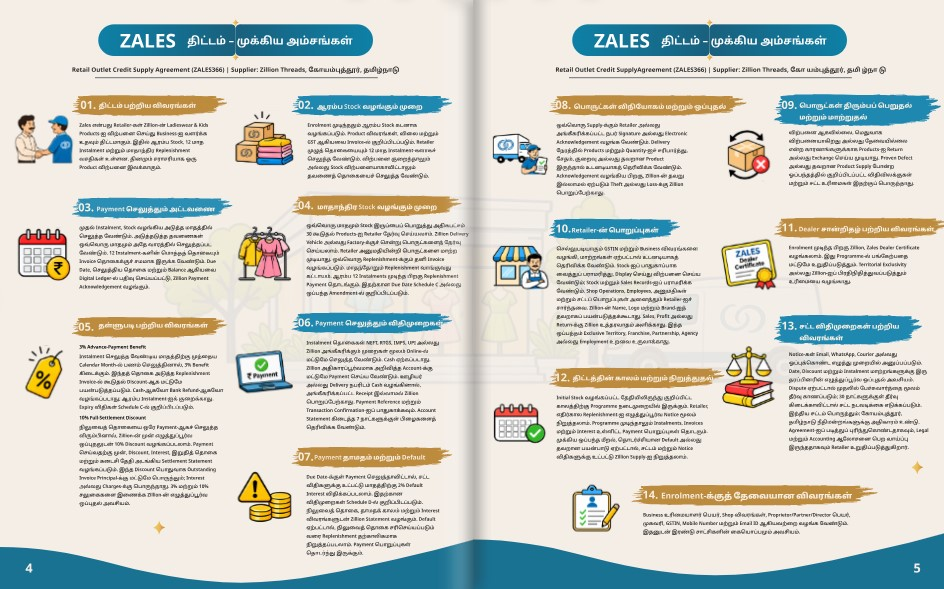
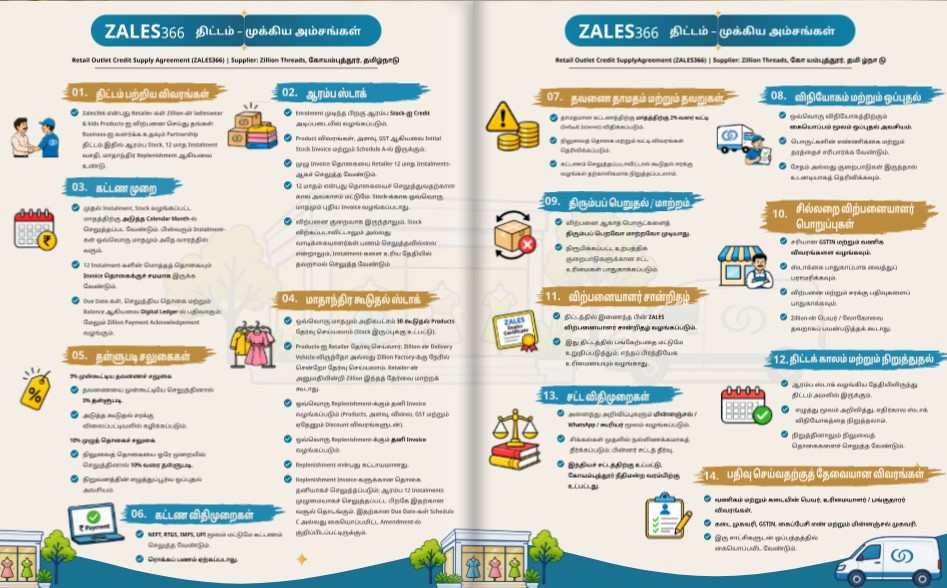
updated page 4 and page 5

diff --git a/For_Desc/script.js b/For_Desc/script.js
@@ -1798,14 +1798,17 @@ document.addEventListener("DOMContentLoaded", function () {
     // Pages 2-3 (Double page spread)
     createThumbItem(2, 'page 2-3', '../global%20assets/Images/Thumbnail-Images/page-2-3.webp');
 
+    // Pages 4-5 (Double page spread)
+    createThumbItem(4, 'page 4-5', '../global%20assets/Images/Thumbnail-Images/page-4-5.webp');
+
 
     // Page 6 (Single contact/back page)
-    createThumbItem(4, 'page 4', '../global%20assets/Images/Thumbnail-Images/page-6.webp');
+    createThumbItem(6, 'page 6', '../global%20assets/Images/Thumbnail-Images/page-6.webp');
 
     function createThumbItem(pageNumber, label, imageSrc) {
         const item = document.createElement('div');
         item.className = 'thumb-grid-item';
-        if (pageNumber === 1 || pageNumber === 4 || pageNumber === 40) {
+        if (pageNumber === 1 || pageNumber === 6 || pageNumber === 40) {
             item.classList.add('portrait-card');
         }
         item.setAttribute('data-page', pageNumber);
